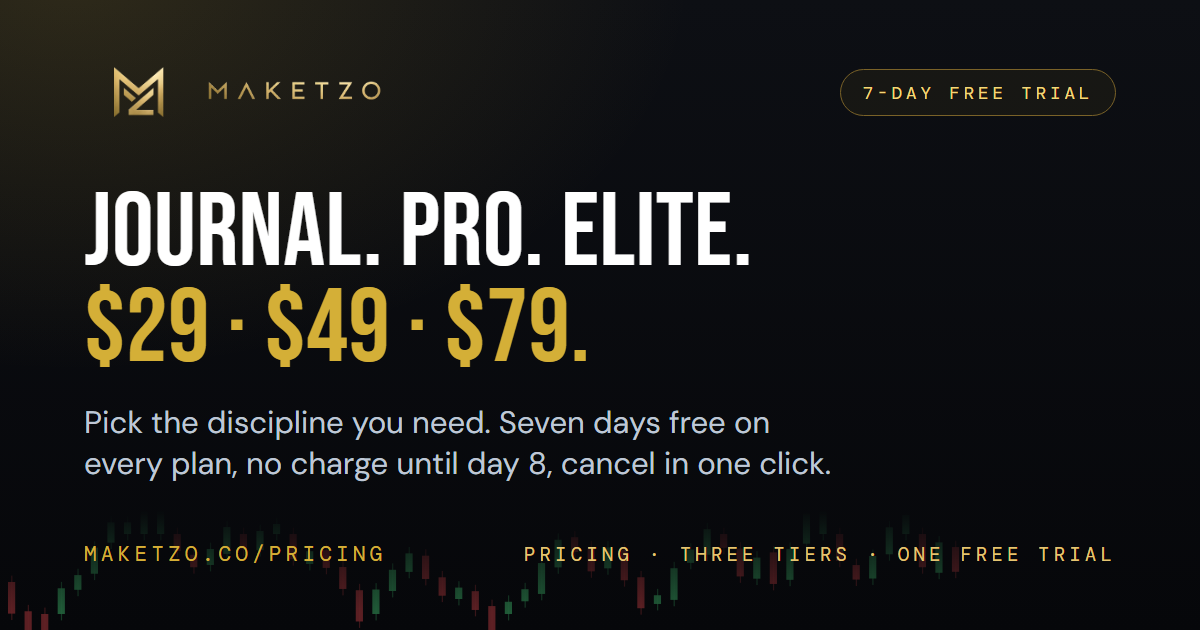
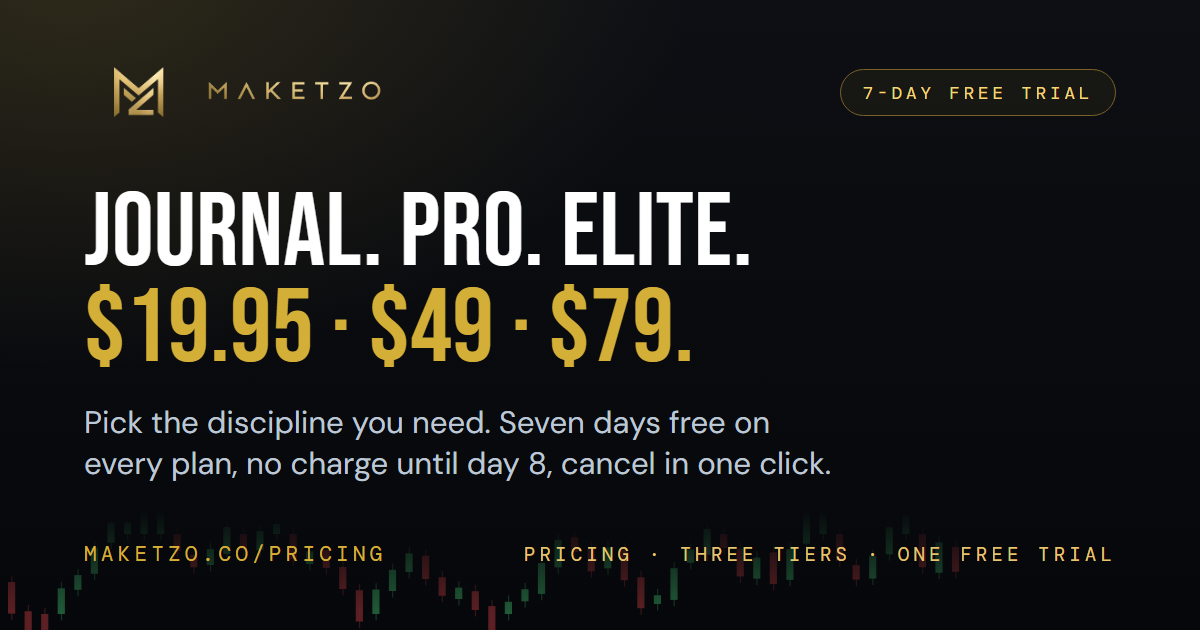
Journal $19.95 / $199, and a price strip under the /pricing hero
Journal goes from $29 to $19.95 a month and $199 a year (Ed, 2026-11-10).
/pricing now leads with the comparison Ed picked (mockup A): a strip under
the hero with Journal $19.95 against the first paid plan of Tradervue
($29.95), TraderSync ($29.95) and TradeZella ($35), monthly, from each
vendor's own pricing page on Nov 10, 2026, footnoted. It claims price only,
never feature parity: DAS is the one import we market.

- pricing.html: title, meta, JSON-LD offer, Journal card and toggle, matrix
  header, the day-8 and annual FAQ answers, the strip and its styles.
- index.html, journal.html, signup.html, login.html: the Journal price.
  journal.html footnote adds that competitor prices were re-checked on
  2026-11-10 (the feature rows keep their 2026-10-17 date; only prices were
  re-checked).
- Link preview cards: pricing and journal re-rendered with $19.95, card
  version 2 so feeds refetch (apply-meta.js rewrote each page's tag).
- The standalone Edge + Pulse plan stays $29 and is untouched.

Changed region(s): [[0.0925, 0.4524, 0.5858, 0.573]]

diff --git a/pricing.html b/pricing.html
@@ -4,17 +4,17 @@
 <head>
 <meta charset="UTF-8">
 <meta name="viewport" content="width=device-width, initial-scale=1.0">
-<title>Pricing: $29 · $49 · $79, 7-Day Free Trial · MAKETZO</title>
-<meta name="description" content="Pick the discipline you need. Journal $29/mo, Pro $49/mo, Elite $79/mo. 7-day free trial. No charge until day 8. Cancel anytime. Stripe-secured.">
+<title>Pricing: $19.95 · $49 · $79, 7-Day Free Trial · MAKETZO</title>
+<meta name="description" content="Pick the discipline you need. Journal $19.95/mo, Pro $49/mo, Elite $79/mo. 7-day free trial. No charge until day 8. Cancel anytime. Stripe-secured.">
 <meta name="theme-color" content="#06070A">
 <meta property="og:title" content="MAKETZO Pricing: Pick the Discipline You Need">
-<meta property="og:description" content="Journal $29, Pro $49, Elite $79. Every plan starts with a 7-day free trial, no charge until day 8.">
+<meta property="og:description" content="Journal $19.95, Pro $49, Elite $79. Every plan starts with a 7-day free trial, no charge until day 8.">
 <meta property="og:url" content="https://maketzo.co/pricing">
 <!-- Link preview card: generated by tools/link-preview-cards in the dev repo. Edit the copy there and re-render, never the PNG. -->
-<meta property="og:image" content="https://maketzo.co/assets/cards/pricing.png?v=1">
+<meta property="og:image" content="https://maketzo.co/assets/cards/pricing.png?v=2">
 <meta property="og:image:width" content="1200">
 <meta property="og:image:height" content="630">
-<meta property="og:image:alt" content="MAKETZO pricing. Journal $29, Pro $49, Elite $79 a month. Seven days free on every plan.">
+<meta property="og:image:alt" content="MAKETZO pricing. Journal $19.95, Pro $49, Elite $79 a month. Seven days free on every plan.">
 <meta name="twitter:card" content="summary_large_image">
 <meta property="og:type" content="website">
 <link rel="canonical" href="https://maketzo.co/pricing">
@@ -28,7 +28,7 @@
   "url": "https://maketzo.co/pricing",
   "description": "Behavioral accountability system for retail day traders: trade journal, COACH SAYS enforcement, Maketzo Edge + Pulse indicators, Focus Room, Strike System, and automatic lockouts.",
   "offers": [
-    { "@type": "Offer", "name": "Journal", "price": "29.00", "priceCurrency": "USD", "url": "https://maketzo.co/pricing" },
+    { "@type": "Offer", "name": "Journal", "price": "19.95", "priceCurrency": "USD", "url": "https://maketzo.co/pricing" },
     { "@type": "Offer", "name": "Pro", "price": "49.00", "priceCurrency": "USD", "url": "https://maketzo.co/pricing" },
     { "@type": "Offer", "name": "Elite", "price": "79.00", "priceCurrency": "USD", "url": "https://maketzo.co/pricing" },
     { "@type": "Offer", "name": "Maketzo Edge + Pulse (standalone indicators)", "price": "29.00", "priceCurrency": "USD", "url": "https://maketzo.co/indicators" }
@@ -352,6 +352,75 @@ hr.mk-rule-gold, hr.mk-rule-gold--bold { margin: 0 auto; max-width: 1180px; }
   line-height: var(--mk-lead-body);
   max-width: 640px;
   margin: 0 auto;
+}
+
+/* ── JOURNAL PRICE STRIP (Ed, 2026-11-10, mockup A) ─────────────
+   Journal against the first paid plan of the journals a trader is comparing,
+   monthly. Price only, never feature parity: DAS is the one import we market.
+   Re-check the three prices on each vendor's own page before changing a date. */
+.price-strip {
+  max-width: 560px;
+  margin: 36px auto 0;
+  padding: 22px 26px;
+  border: var(--mk-border-gold);
+  border-radius: var(--mk-radius-card);
+  background: var(--mk-surface-raised);
+  box-shadow: var(--mk-glow-gold-sm);
+  display: grid;
+  grid-template-columns: auto 1fr;
+  gap: 8px 28px;
+  align-items: center;
+  text-align: left;
+}
+.price-strip-us { display: flex; flex-direction: column; gap: 4px; }
+.price-strip-eyebrow {
+  font-family: var(--mk-font-mono);
+  font-size: var(--mk-mono-xs);
+  letter-spacing: var(--mk-track-eyebrow);
+  color: var(--mk-brand);
+}
+.price-strip-price {
+  font-family: var(--mk-font-display);
+  font-size: clamp(2.4rem, 5vw, 3rem);
+  letter-spacing: var(--mk-track-display);
+  line-height: 1;
+  background: var(--mk-gold-gradient);
+  -webkit-background-clip: text;
+  background-clip: text;
+  color: transparent;
+}
+.price-strip-per {
+  font-family: var(--mk-font-mono);
+  font-size: var(--mk-mono-xs);
+  letter-spacing: 0.04em;
+  color: var(--mk-text-tertiary);
+}
+.price-strip-them { list-style: none; margin: 0; padding: 0; display: flex; flex-direction: column; gap: 6px; }
+.price-strip-them li {
+  display: flex; justify-content: space-between; gap: 16px;
+  font-family: var(--mk-font-mono);
+  font-size: var(--mk-mono-sm);
+  color: var(--mk-text-secondary);
+  border-bottom: var(--mk-border-hairline);
+  padding-bottom: 6px;
+}
+.price-strip-them li:last-child { border-bottom: 0; padding-bottom: 0; }
+.price-strip-line {
+  grid-column: 1 / -1;
+  margin-top: 8px;
+  font-size: var(--mk-text-md);
+  color: var(--mk-text-primary);
+}
+.price-strip-note {
+  max-width: 560px;
+  margin: 10px auto 0;
+  font-family: var(--mk-font-mono);
+  font-size: var(--mk-mono-xs);
+  letter-spacing: 0.04em;
+  color: var(--mk-text-tertiary);
+}
+@media (max-width: 600px) {
+  .price-strip { grid-template-columns: 1fr; padding: 20px; }
 }
 
 /* ── PRICING TOGGLE ──────────────────────────────────────────── */
@@ -1078,6 +1147,21 @@ a.toolkit-card { text-decoration: none; color: inherit; }
     <p class="page-hero-eyebrow reveal">06 · PRICING · THREE TIERS · NO SURPRISES</p>
     <h1 class="page-hero-title reveal">Pick the discipline you need. <em>Upgrade when you outgrow it.</em></h1>
     <p class="page-hero-sub reveal">Journal records the day and grades it. Pro steps in while the day is still live. Elite doubles the Dilution Check reads. Every tier starts with a 7-day free trial, no charge until day 8.</p>
+    <!-- Journal price strip (Ed, 2026-11-10). Competitor prices: first paid plan, monthly, each vendor's own pricing page. -->
+    <div class="price-strip reveal">
+      <div class="price-strip-us">
+        <span class="price-strip-eyebrow">JOURNAL</span>
+        <span class="price-strip-price">$19.95</span>
+        <span class="price-strip-per">A MONTH</span>
+      </div>
+      <ul class="price-strip-them" aria-label="Other trading journals, monthly">
+        <li><span>Tradervue</span><span>$29.95</span></li>
+        <li><span>TraderSync</span><span>$29.95</span></li>
+        <li><span>TradeZella</span><span>$35</span></li>
+      </ul>
+      <p class="price-strip-line">$10 to $15 less every month.</p>
+    </div>
+    <p class="price-strip-note reveal">Monthly price of each journal's first paid plan, from its own pricing page, Nov 10, 2026.</p>
   </div>
 </section>
 
@@ -1102,10 +1186,10 @@ a.toolkit-card { text-decoration: none; color: inherit; }
         <div class="tier-pitch">Stop trading blind. Log every fill, surface every pattern, and score the discipline your P&amp;L keeps hiding.</div>
         <div class="tier-price-row">
           <span class="tier-currency">$</span>
-          <span class="tier-price" id="p1num">29</span>
+          <span class="tier-price" id="p1num">19.95</span>
           <span class="tier-per" id="p1per">/mo</span>
         </div>
-        <div class="tier-sub" id="p1sub">or $290/yr, save 17%</div>
+        <div class="tier-sub" id="p1sub">or $199/yr, save 17%</div>
         <ul class="tier-features">
           <li><span class="feat"><span class="feat-name">Trade journal &amp; session log</span><span class="feat-desc">Every fill and the story behind it, captured before tomorrow blurs the details.</span></span></li>
           <li><span class="feat"><span class="feat-name">P&amp;L &amp; analytics</span><span class="feat-desc">P&amp;L broken out by symbol, price band, and setup, so you see where your edge actually lives.</span></span></li>
@@ -1178,7 +1262,7 @@ a.toolkit-card { text-decoration: none; color: inherit; }
         <thead>
           <tr>
             <th></th>
-            <th class="col-tier"><span class="compare-tier-name">Journal</span><span class="compare-tier-price">$29/mo</span></th>
+            <th class="col-tier"><span class="compare-tier-name">Journal</span><span class="compare-tier-price">$19.95/mo</span></th>
             <th class="col-tier featured"><span class="compare-tier-name">Pro</span><span class="compare-tier-price">$49/mo</span></th>
             <th class="col-tier"><span class="compare-tier-name">Elite</span><span class="compare-tier-price">$79/mo</span></th>
           </tr>
@@ -1391,7 +1475,7 @@ a.toolkit-card { text-decoration: none; color: inherit; }
       </details>
       <details class="faq-item reveal">
         <summary>What happens on day 8?</summary>
-        <div class="faq-body"><p>Your chosen plan's first charge runs ($29, $49, or $79) and your trial converts to a full subscription. We email you a reminder 3 days before, so day 8 is never a surprise.</p></div>
+        <div class="faq-body"><p>Your chosen plan's first charge runs ($19.95, $49, or $79) and your trial converts to a full subscription. We email you a reminder 3 days before, so day 8 is never a surprise.</p></div>
       </details>
       <details class="faq-item reveal">
         <summary>Can I cancel during the trial?</summary>
@@ -1411,7 +1495,7 @@ a.toolkit-card { text-decoration: none; color: inherit; }
       </details>
       <details class="faq-item reveal">
         <summary>What about annual billing?</summary>
-        <div class="faq-body"><p>Annual saves you 17 to 32%. Journal at $290/year, Pro at $399/year, Elite at $649/year. Same trial mechanics, and you can cancel anytime. Toggle "Annual" at the top of this page to lock in the price.</p></div>
+        <div class="faq-body"><p>Annual saves you 17 to 32%. Journal at $199/year, Pro at $399/year, Elite at $649/year. Same trial mechanics, and you can cancel anytime. Toggle "Annual" at the top of this page to lock in the price.</p></div>
       </details>
       <details class="faq-item reveal">
         <summary>How do referral credits work?</summary>
@@ -1499,12 +1583,12 @@ function closeDrawer(){
 // PRICING TOGGLE
 const plans={
   monthly:[
-    {num:'29',per:'/mo',sub:'or $290/yr, save 17%'},
+    {num:'19.95',per:'/mo',sub:'or $199/yr, save 17%'},
     {num:'49',per:'/mo',sub:'or $399/yr, save 32%'},
     {num:'79',per:'/mo',sub:'or $649/yr, save 32%'}
   ],
   annual:[
-    {num:'290',per:'/yr',sub:'Billed annually, save 17%'},
+    {num:'199',per:'/yr',sub:'Billed annually, save 17%'},
     {num:'399',per:'/yr',sub:'Billed annually, save 32%'},
     {num:'649',per:'/yr',sub:'Billed annually, save 32%'}
   ]

diff --git a/journal.html b/journal.html
@@ -11,7 +11,7 @@
 <meta property="og:description" content="DAS import and reports, a grade for how well you kept your rules, and coaching in real time. 7-day free trial.">
 <meta property="og:url" content="https://maketzo.co/journal">
 <!-- Link preview card: generated by tools/link-preview-cards in the dev repo. Edit the copy there and re-render, never the PNG. -->
-<meta property="og:image" content="https://maketzo.co/assets/cards/journal.png?v=1">
+<meta property="og:image" content="https://maketzo.co/assets/cards/journal.png?v=2">
 <meta property="og:image:width" content="1200">
 <meta property="og:image:height" content="630">
 <meta property="og:image:alt" content="MAKETZO Journal. The journal that grades your discipline. DAS import, analytics and a Picard Score.">
@@ -1023,7 +1023,7 @@ footer { background: var(--mk-obsidian-950); border-top: var(--mk-border-hairlin
         <thead>
           <tr>
             <th class="col-feature">Feature</th>
-            <th class="col-us"><span class="compare-tier-name">MAKETZO</span><span class="compare-tier-price">from $29/mo</span></th>
+            <th class="col-us"><span class="compare-tier-name">MAKETZO</span><span class="compare-tier-price">from $19.95/mo</span></th>
             <th><span class="compare-tier-name">TradeZella</span><span class="compare-tier-price">from $35/mo</span></th>
             <th><span class="compare-tier-name">TraderVue</span><span class="compare-tier-price">from $0 / $29.95</span></th>
             <th><span class="compare-tier-name">TraderSync</span><span class="compare-tier-price">from $29.95/mo</span></th>
@@ -1059,7 +1059,7 @@ footer { background: var(--mk-obsidian-950); border-top: var(--mk-border-hairlin
         </tbody>
       </table>
     </div>
-    <p class="compare-footnote reveal">Comparisons based on each vendor's own pages and help docs as of 2026-10-17. Vendor offerings and pricing change, so verify current details with each tool before subscribing. Competitor names are trademarks of their respective owners; referenced here for honest comparison only.</p>
+    <p class="compare-footnote reveal">Comparisons based on each vendor's own pages and help docs as of 2026-10-17; TradeZella, TraderVue and TraderSync prices checked 2026-11-10. Vendor offerings and pricing change, so verify current details with each tool before subscribing. Competitor names are trademarks of their respective owners; referenced here for honest comparison only.</p>
 
     <div class="mk-cta-repeat">
       <button class="btn-primary" data-cta-source="compare" onclick="handleCheckout('pro',event)">Start 7-Day Free Trial &rarr;</button>
@@ -1099,12 +1099,12 @@ footer { background: var(--mk-obsidian-950); border-top: var(--mk-border-hairlin
   <div class="section-inner">
     <p class="section-eyebrow reveal">PICK YOUR LAYER</p>
     <h2 class="section-title reveal">Journal alone. <em>Or journal plus the rest.</em></h2>
-    <p class="section-sub reveal">Journal $29/mo covers the core data tool. Pro $49/mo unlocks everything the other journals can't do. Elite $79/mo doubles the Dilution Check reads to 200 a month and gets first access to the AI Training Engine when it ships.</p>
+    <p class="section-sub reveal">Journal $19.95/mo covers the core data tool. Pro $49/mo unlocks everything the other journals can't do. Elite $79/mo doubles the Dilution Check reads to 200 a month and gets first access to the AI Training Engine when it ships.</p>
 
     <div class="tier-strip">
       <div class="tier-mini reveal">
         <div class="tier-mini-name">Journal</div>
-        <div class="tier-mini-price">$29 / month</div>
+        <div class="tier-mini-price">$19.95 / month</div>
         <div class="tier-mini-note">Trade journal &middot; session log &middot; P&amp;L &middot; streak &middot; Picard Score</div>
         <button class="btn-secondary" data-tier="journal" data-interval="month" onclick="handleCheckout(this.dataset.tier,event)">Start Free Trial</button>
       </div>

diff --git a/index.html b/index.html
@@ -15,7 +15,7 @@
 <meta property="og:description" content="The only trading system that enforces your rules when willpower fails.">
 <meta property="og:url" content="https://maketzo.co">
 <!-- Link preview card: generated by tools/link-preview-cards in the dev repo. Edit the copy there and re-render, never the PNG. -->
-<meta property="og:image" content="https://maketzo.co/assets/cards/index.png?v=1">
+<meta property="og:image" content="https://maketzo.co/assets/cards/index.png?v=2">
 <meta property="og:image:width" content="1200">
 <meta property="og:image:height" content="630">
 <meta property="og:image:alt" content="MAKETZO. You know the rules. You break them anyway. The discipline system for day traders, 7 days free.">
@@ -3428,8 +3428,8 @@ document.addEventListener("DOMContentLoaded", function() {
     <div class="pricing-grid">
       <div class="price-card reveal">
         <div class="price-eyebrow">Starter</div><div class="price-name">MAKETZO Journal</div>
-        <div class="price-row"><span class="price-dollar">$</span><span class="price-num" id="p1num">29</span><span class="price-per" id="p1per">/mo</span></div>
-        <div class="price-sub" id="p1sub">or $290/yr, save 17%</div>
+        <div class="price-row"><span class="price-dollar">$</span><span class="price-num" id="p1num">19.95</span><span class="price-per" id="p1per">/mo</span></div>
+        <div class="price-sub" id="p1sub">or $199/yr, save 17%</div>
         <div class="price-rule"></div>
         <ul class="price-list">
           <li class="bold">Trade journal &amp; daily session log</li>
@@ -3577,12 +3577,12 @@ function closeDrawer(){
 // PRICING
 const plans={
   monthly:[
-    {num:'29',per:'/mo',sub:'or $290/yr, save 17%'},
+    {num:'19.95',per:'/mo',sub:'or $199/yr, save 17%'},
     {num:'49',per:'/mo',sub:'or $399/yr, save 32%'},
     {num:'79',per:'/mo',sub:'or $649/yr, save 32%'}
   ],
   annual:[
-    {num:'290',per:'/yr',sub:'Billed annually, save 17%'},
+    {num:'199',per:'/yr',sub:'Billed annually, save 17%'},
     {num:'399',per:'/yr',sub:'Billed annually, save 32%'},
     {num:'649',per:'/yr',sub:'Billed annually, save 32%'}
   ]

diff --git a/signup.html b/signup.html
@@ -25,7 +25,7 @@
 <script src="assets/js/password-rules.js?v=1"></script>
 <script src="https://challenges.cloudflare.com/turnstile/v0/api.js" async defer></script>
   <!-- Link preview card: generated by tools/link-preview-cards in the dev repo. Edit the copy there and re-render, never the PNG. -->
-  <meta property="og:image" content="https://maketzo.co/assets/cards/index.png?v=1">
+  <meta property="og:image" content="https://maketzo.co/assets/cards/index.png?v=2">
   <meta property="og:image:width" content="1200">
   <meta property="og:image:height" content="630">
   <meta property="og:image:alt" content="MAKETZO. You know the rules. You break them anyway. The discipline system for day traders, 7 days free.">
@@ -130,7 +130,7 @@ const TIER_BY_PRICE = {
 };
 // Display copy per tier. Edge + Pulse (indicators) is charged immediately (no trial).
 const TIER_INFO = {
-  journal:    { name: 'Journal',      month: '$29/mo', year: '$290/yr' },
+  journal:    { name: 'Journal',      month: '$19.95/mo', year: '$199/yr' },
   pro:        { name: 'Pro',          month: '$49/mo', year: '$399/yr' },
   elite:      { name: 'Elite',        month: '$79/mo', year: '$649/yr' },
   indicators: { name: 'Edge + Pulse', month: '$29/mo', year: '$290/yr', isIndicator: true }

diff --git a/login.html b/login.html
@@ -20,7 +20,7 @@
 <script src="assets/js/passkey-client.js?v=2"></script>
 <script src="assets/js/mkt-consent.js?v=1" defer></script>
   <!-- Link preview card: generated by tools/link-preview-cards in the dev repo. Edit the copy there and re-render, never the PNG. -->
-  <meta property="og:image" content="https://maketzo.co/assets/cards/index.png?v=1">
+  <meta property="og:image" content="https://maketzo.co/assets/cards/index.png?v=2">
   <meta property="og:image:width" content="1200">
   <meta property="og:image:height" content="630">
   <meta property="og:image:alt" content="MAKETZO. You know the rules. You break them anyway. The discipline system for day traders, 7 days free.">
@@ -119,7 +119,7 @@ const TIER_BY_PRICE = {
   'price_1Tc8J0JIDbUntZeX1fYQ1ET6': { tier: 'indicators', interval: 'year'  }
 };
 const TIER_INFO = {
-  journal:    { name: 'Journal',      month: '$29/mo', year: '$290/yr' },
+  journal:    { name: 'Journal',      month: '$19.95/mo', year: '$199/yr' },
   pro:        { name: 'Pro',          month: '$49/mo', year: '$399/yr' },
   elite:      { name: 'Elite',        month: '$79/mo', year: '$649/yr' },
   indicators: { name: 'Edge + Pulse', month: '$29/mo', year: '$290/yr', isIndicator: true }

diff --git a/guides.html b/guides.html
@@ -10,7 +10,8 @@
 <meta property="og:title" content="Guides for Small-Cap Day Traders">
 <meta property="og:description" content="Guides for small-cap day traders, grouped by topic. See how MAKETZO compares with the tools you use, and find what to read before your next session.">
 <meta property="og:url" content="https://maketzo.co/guides">
-<meta property="og:image" content="https://maketzo.co/assets/cards/index.png?v=1">
+<!-- Link preview card: generated by tools/link-preview-cards in the dev repo. Edit the copy there and re-render, never the PNG. -->
+<meta property="og:image" content="https://maketzo.co/assets/cards/index.png?v=2">
 <meta property="og:image:width" content="1200">
 <meta property="og:image:height" content="630">
 <meta property="og:image:alt" content="MAKETZO. You know the rules. You break them anyway. The discipline system for day traders, 7 days free.">

diff --git a/tools.html b/tools.html
@@ -11,7 +11,7 @@
 <meta property="og:description" content="Free tools for small-cap day traders, ordered as a path from knowing yourself to trading the tape. Rehearse scaling, drill discipline, reset your head. Most run free in your browser, no signup.">
 <meta property="og:url" content="https://maketzo.co/tools">
 <!-- Link preview card: generated by tools/link-preview-cards in the dev repo. Edit the copy there and re-render, never the PNG. -->
-<meta property="og:image" content="https://maketzo.co/assets/cards/tools.png?v=1">
+<meta property="og:image" content="https://maketzo.co/assets/cards/tools.png?v=2">
 <meta property="og:image:width" content="1200">
 <meta property="og:image:height" content="630">
 <meta property="og:image:alt" content="MAKETZO free tools. Get sharp before you risk a dollar. Free tools for small-cap day traders, no signup.">

diff --git a/dilution-check.html b/dilution-check.html
@@ -17,7 +17,7 @@
 <meta property="og:description" content="The stock is up 60%. Can the company sell into it? Dilution Check reads their SEC filings and answers it, with every line dated and linked to the filing.">
 <meta property="og:url" content="https://maketzo.co/dilution-check">
 <!-- Link preview card: generated by tools/link-preview-cards in the dev repo. Edit the copy there and re-render, never the PNG. -->
-<meta property="og:image" content="https://maketzo.co/assets/cards/dilution-check.png?v=1">
+<meta property="og:image" content="https://maketzo.co/assets/cards/dilution-check.png?v=2">
 <meta property="og:image:width" content="1200">
 <meta property="og:image:height" content="630">
 <meta property="og:image:alt" content="MAKETZO Dilution Check. The stock is up 60 percent. Can the company sell into it? Read from SEC filings.">

diff --git a/focus.html b/focus.html
@@ -11,7 +11,7 @@
 <meta property="og:description" content="Train your state of mind, the edge that decides whether you follow your rules. Lock-in day contracts, guided resets, warm-up games, and a daily debrief.">
 <meta property="og:url" content="https://maketzo.co/focus">
 <!-- Link preview card: generated by tools/link-preview-cards in the dev repo. Edit the copy there and re-render, never the PNG. -->
-<meta property="og:image" content="https://maketzo.co/assets/cards/focus.png?v=1">
+<meta property="og:image" content="https://maketzo.co/assets/cards/focus.png?v=2">
 <meta property="og:image:width" content="1200">
 <meta property="og:image:height" content="630">
 <meta property="og:image:alt" content="MAKETZO Focus Room. Your state of mind is the edge, train it. Lock-In, warm-up games, resets and a daily debrief.">

diff --git a/indicators.html b/indicators.html
@@ -11,7 +11,7 @@
 <meta property="og:description" content="Two invite-only TradingView indicators. Edge times the window to trade, Pulse confirms the momentum. Pro and Elite, or standalone at $29/mo.">
 <meta property="og:url" content="https://maketzo.co/indicators">
 <!-- Link preview card: generated by tools/link-preview-cards in the dev repo. Edit the copy there and re-render, never the PNG. -->
-<meta property="og:image" content="https://maketzo.co/assets/cards/indicators.png?v=1">
+<meta property="og:image" content="https://maketzo.co/assets/cards/indicators.png?v=2">
 <meta property="og:image:width" content="1200">
 <meta property="og:image:height" content="630">
 <meta property="og:image:alt" content="Maketzo Edge and Pulse. Two TradingView indicators, one read on whether to act or wait.">

diff --git a/trade-replay.html b/trade-replay.html
@@ -11,7 +11,7 @@
 <meta property="og:description" content="Enter the fills you would have made on any past chart and see whether your scaling actually paid. Long or short. Free, no signup.">
 <meta property="og:url" content="https://maketzo.co/trade-replay">
 <!-- Link preview card: generated by tools/link-preview-cards in the dev repo. Edit the copy there and re-render, never the PNG. -->
-<meta property="og:image" content="https://maketzo.co/assets/cards/trade-replay.png?v=1">
+<meta property="og:image" content="https://maketzo.co/assets/cards/trade-replay.png?v=2">
 <meta property="og:image:width" content="1200">
 <meta property="og:image:height" content="630">
 <meta property="og:image:alt" content="MAKETZO Trade Replay. Did your scaling actually make money? Replay any past chart, free.">

diff --git a/disclaimer.html b/disclaimer.html
@@ -7,7 +7,7 @@
 <title>Risk Disclaimer · MAKETZO</title>
 <meta name="description" content="MAKETZO Risk Disclaimer. Trading involves substantial risk. MAKETZO is a discipline tool, not financial advice. Past results do not guarantee future ones.">
 <!-- Link preview card: generated by tools/link-preview-cards in the dev repo. Edit the copy there and re-render, never the PNG. -->
-<meta property="og:image" content="https://maketzo.co/assets/cards/index.png?v=1">
+<meta property="og:image" content="https://maketzo.co/assets/cards/index.png?v=2">
 <meta property="og:image:width" content="1200">
 <meta property="og:image:height" content="630">
 <meta property="og:image:alt" content="MAKETZO. You know the rules. You break them anyway. The discipline system for day traders, 7 days free.">
